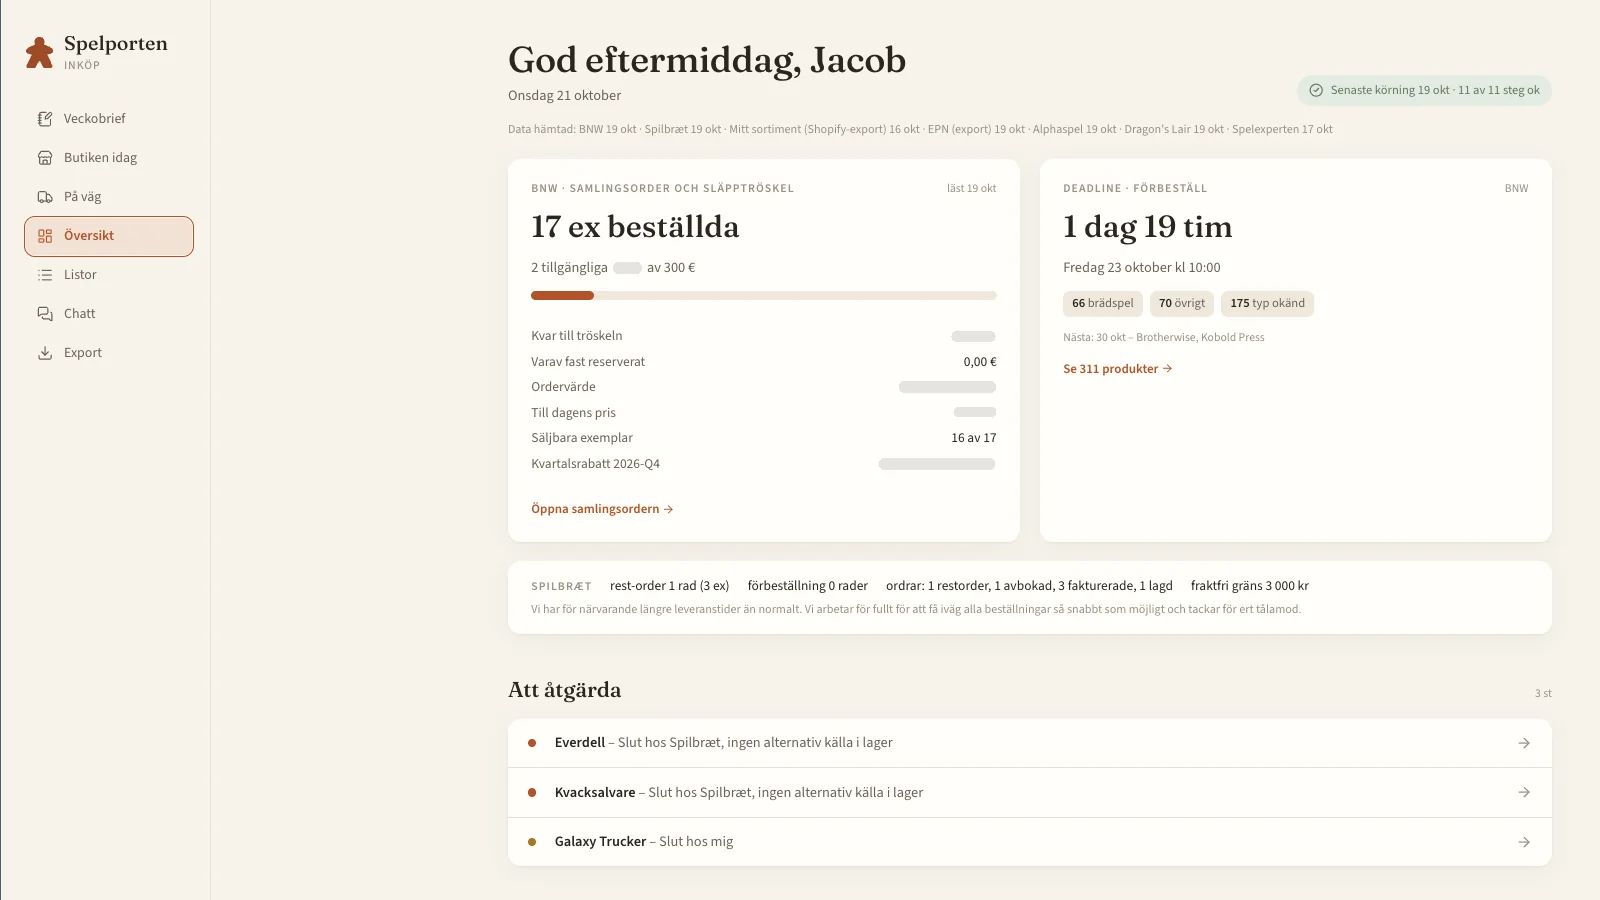
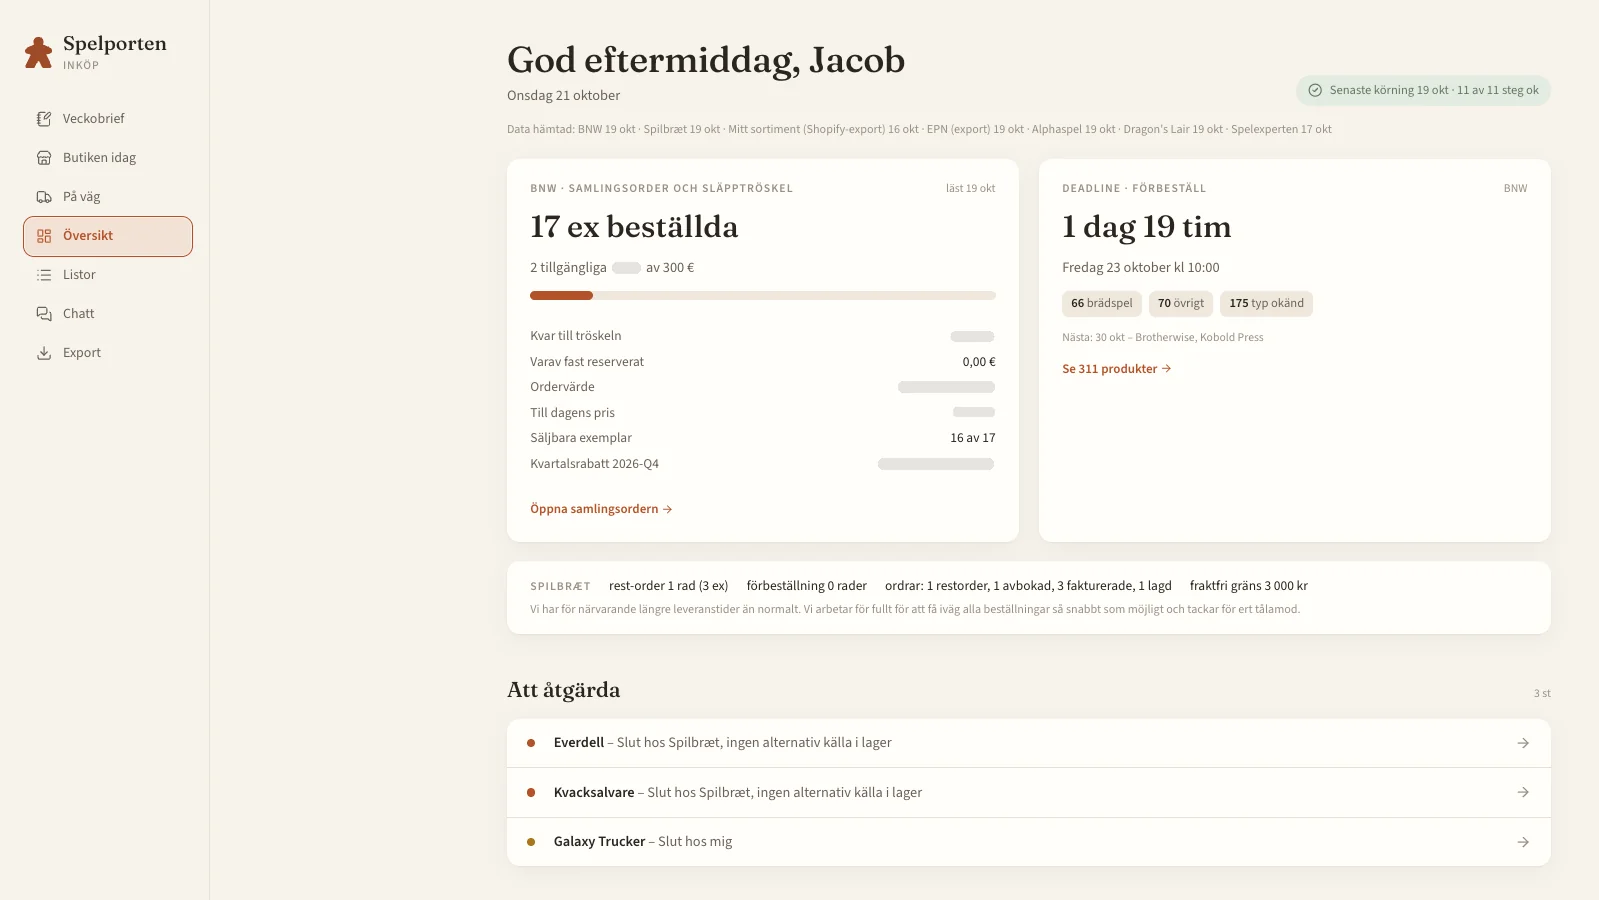
Trim screenshot edge line from Spelporten Inköp images
The macOS window screenshots carried a 1 px dark line on the left
edge. Cropped from the redacted sources, so the redaction is
unchanged (pixel-identical apart from the removed column).

diff --git a/src/content/projects.ts b/src/content/projects.ts
@@ -363,10 +363,10 @@ export const projectContent: ProjectContent[] = [
     heroImage: "/images/spelporten-inkop/oversikt.webp",
     heroCaption: "The overview — supplier status, deadlines and what needs attention, on one screen.",
     galleryImages: [
-      { src: "/images/spelporten-inkop/chatt.webp", caption: "The agent answers with tool calls visible, so every number can be traced to its source.", group: 1, width: 1687, height: 1316 },
-      { src: "/images/spelporten-inkop/chatt-dark.webp", caption: "Designed for daily use: the app follows the system theme, light or dark.", group: 1, width: 1687, height: 1316 },
-      { src: "/images/spelporten-inkop/butiken-idag.webp", caption: "The store today: price, market range, contribution per order and a role for each game.", group: 1, width: 1687, height: 759, fullWidth: true, mobileSrc: "/images/spelporten-inkop/butiken-idag-mobile.webp", mobileWidth: 382, mobileHeight: 276 },
-      { src: "/images/spelporten-inkop/pa-vag.webp", caption: "What is on its way, in the same view, before it arrives.", group: 1, width: 1687, height: 1098, fullWidth: true, mobileSrc: "/images/spelporten-inkop/pa-vag-mobile.webp", mobileWidth: 427, mobileHeight: 330 },
+      { src: "/images/spelporten-inkop/chatt.webp", caption: "The agent answers with tool calls visible, so every number can be traced to its source.", group: 1, width: 1686, height: 1316 },
+      { src: "/images/spelporten-inkop/chatt-dark.webp", caption: "Designed for daily use: the app follows the system theme, light or dark.", group: 1, width: 1686, height: 1316 },
+      { src: "/images/spelporten-inkop/butiken-idag.webp", caption: "The store today: price, market range, contribution per order and a role for each game.", group: 1, width: 1686, height: 759, fullWidth: true, mobileSrc: "/images/spelporten-inkop/butiken-idag-mobile.webp", mobileWidth: 382, mobileHeight: 276 },
+      { src: "/images/spelporten-inkop/pa-vag.webp", caption: "What is on its way, in the same view, before it arrives.", group: 1, width: 1686, height: 1098, fullWidth: true, mobileSrc: "/images/spelporten-inkop/pa-vag-mobile.webp", mobileWidth: 427, mobileHeight: 330 },
       { src: "/images/spelporten-inkop/undvik.webp", caption: "The agent also says what not to buy, and flags an uncertain match instead of guessing.", group: 4, width: 1090, height: 802 },
       { src: "/images/spelporten-inkop/veckobrief.webp", caption: "The weekly brief — suggestions grouped by purpose, each with a reference price, a reason and a risk.", group: 2, width: 1580, height: 1317 },
     ],

diff --git a/docs/beslutslogg.md b/docs/beslutslogg.md
@@ -7,6 +7,13 @@ Format per post: datum — beslut — förkastat alternativ — skäl — commit
 
 ---
 
+**2026-10-21 — Skärmdumparnas 1 px mörka kantlinje till vänster beskärs
+bort (butiken-idag, pa-vag, oversikt, chatt, chatt-dark). Granskat och
+lämnat: chattarnas nedersta rader är inmatningsfältets skugga och
+pa-vag-mobile slutar på en tabellradslinje, båda är innehåll och inte
+kant. — Beskära flera px för säkerhets skull. — Bara det som behövs;
+mätt per kant och bild. — se commit "Trim screenshot edge line"**
+
 **2026-10-21 — Spelporten Inköp-skärmdumparna maskas med täckande fält:
 pixlarna ersätts med bakgrundsfärg och en dämpad stapel. Inköpspriser,
 marginal (kr och %), budgetbelopp, kvartalsrabatt och ordernummer döljs;

diff --git a/CLAUDE.md b/CLAUDE.md
@@ -54,7 +54,9 @@ Läs dessa tre innan du rör kod. De är sanningen om projektet:
   med täckande fält (bakgrundsfärg plus en dämpad stapel), aldrig
   suddning. På mörk bakgrund måste stapeln vara ljusare än bakgrunden,
   annars syns den inte och maskningen ser ut som ett hål. Granska hela
-  den färdiga bilden, inte bara de maskade rutorna.
+  den färdiga bilden, inte bara de maskade rutorna. macOS-skärmdumpar
+  av ett fönster kan ha en 1 px mörk kantlinje: mät alla fyra kanter
+  och beskär bort den innan publicering.
 
 ## Arbetssätt
 
